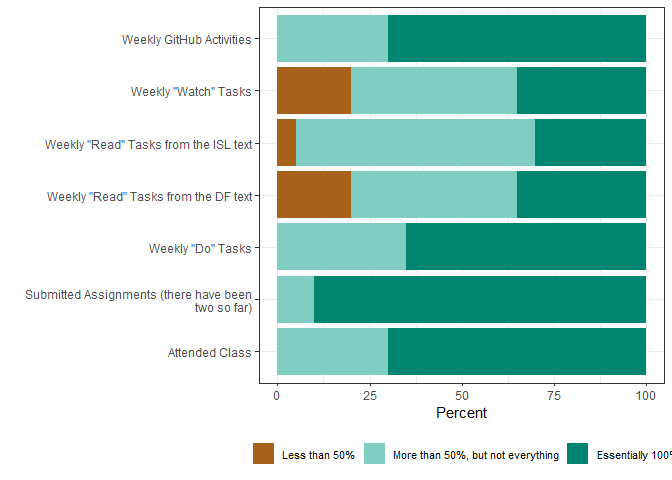
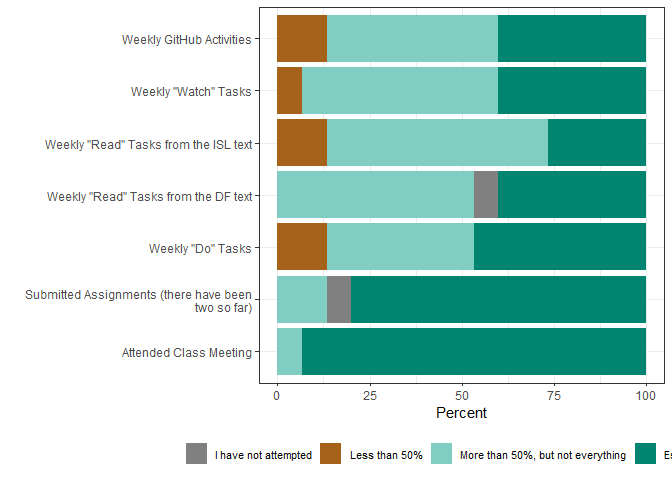
SS23 results

diff --git a/README.md b/README.md
@@ -12,7 +12,7 @@ library(ggwordcloud)
 ``` r
 # You wont be able to run this as you do not have access on my GDrive
 # However, the string here is from the Google Sheet's url - between the "/d/" and "/edit..."
-sta631_evals <- googlesheets4::read_sheet("https://docs.google.com/spreadsheets/d/1VAZseTE8RbrSJm2RLzIpXsDIz9n0htk2GdrQYVyYRu0/edit?resourcekey#gid=2116044512")
+sta631_evals <- googlesheets4::read_sheet("https://docs.google.com/spreadsheets/d/1_hvgvVPWbjrVDrOPPlb1U6ZDDxyw2iVUrS5FHxmGrOY/edit#gid=1940158762")
 
 # Create scales and color palettes
 effort_scale <- c("I have not attempted", "Less than 50%", "More than 50%, but not everything", "Essentially 100%")
@@ -39,7 +39,7 @@ likert_info <- tibble(
 )
 ```
 
-This report was generated with **20 responses**.
+This report was generated with **15 responses**.
 
 ## Your Engagement
 
